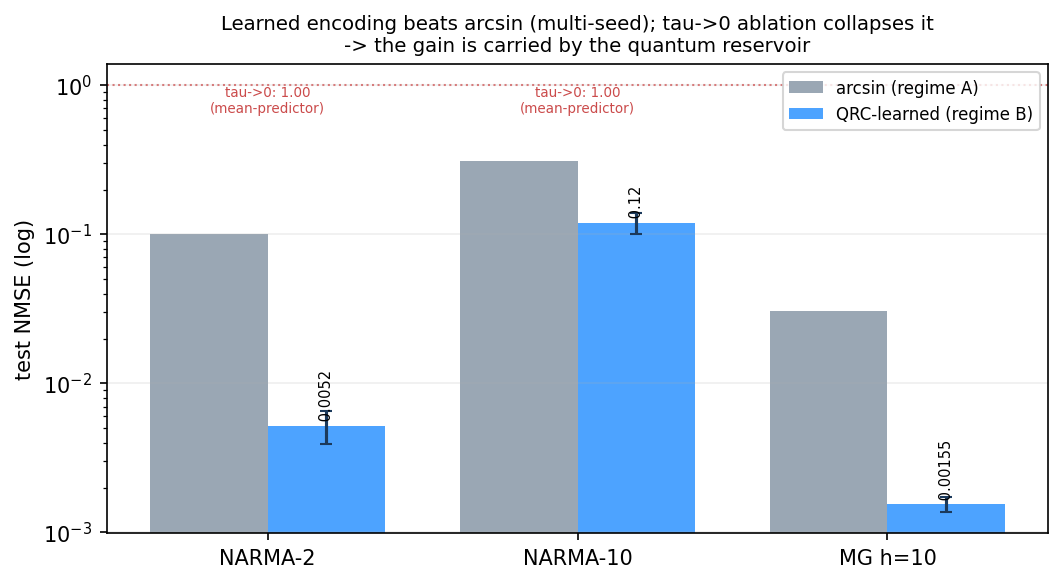
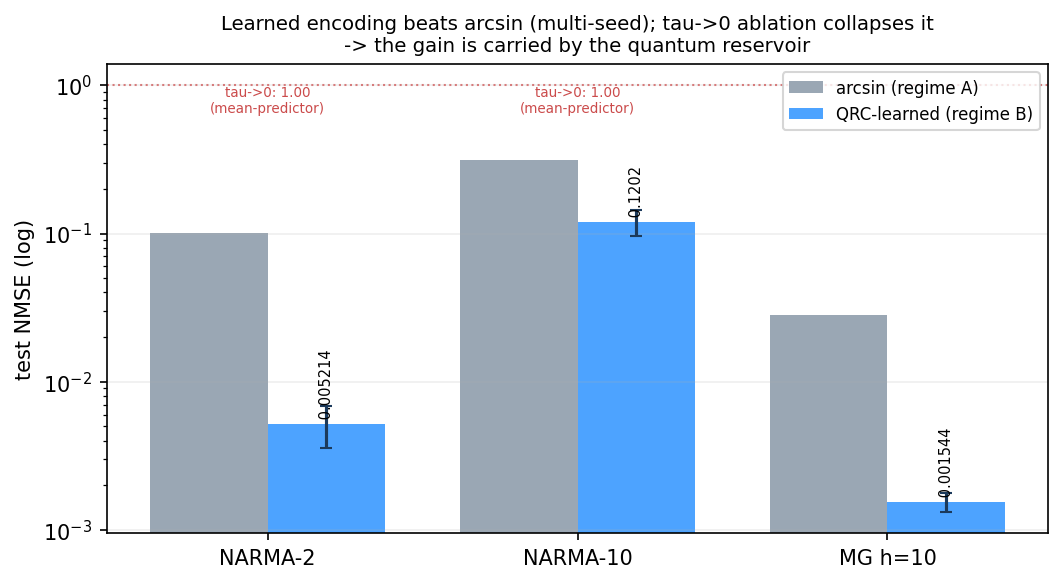
Manuscript: correct the classical comparison to the fair baselines; paper figures read saved data
The fully tuned ESN (qrc_classical_fair_esn.json, data seeds 1-3) beats the 6-spin
learned QRC on every synthetic task; the 'QRC beats ESN 3.7x on MG h=10' claim came
from the superseded size-only ESN and is removed. MG h=10 learned 0.00154+-0.00023
(exact), arcsin 0.028 over 3 seeds. qrc_paper_figures.py loads every number from
docs/QRC/data and pins figP1/P4 to named runs.

diff --git a/docs/QRC/QRC_Next_Stage_Status.html b/docs/QRC/QRC_Next_Stage_Status.html
@@ -82,6 +82,7 @@
   <div class="scroll"><table>
     <thead><tr><th>When</th><th>Subtask</th><th>Result</th><th>Commit</th></tr></thead>
     <tbody>
+      <tr><td>10-24</td><td><b>Publication package part 2: manuscript corrected to fair baselines; figures from saved data</b></td><td><span class="tag t-done">fixed</span> Removed the superseded "QRC beats ESN 3.7x on MG h=10" claim: a fully tuned ESN beats the 6-spin QRC on every synthetic task (also size-matched). QRC beats tuned LSTM on NARMA-10 and MG h=10. MG h=10 learned 0.00154&plusmn;0.00023; paper figure script reads docs/QRC/data only.</td><td>&lt;this commit&gt;</td></tr>
       <tr><td>10-24</td><td><b>Confirmation 2 launched (cira3: Sydney, Sao Paulo; cira2: Toronto)</b></td><td><span class="tag t-todo">running</span> Data downloaded after pre-registration. ESN grid | QRC g = 0.35 + g = 1 (traces saved) | tuned LSTM | confirm eval. ~1 h/city.</td><td>bd016c3</td></tr>
       <tr><td>10-24</td><td><b>Confirmation 2 pre-registered: final design on untouched Sydney / Sao Paulo / Toronto</b></td><td><span class="tag t-todo">pre-reg</span> g = 0.35, tau = 30 ms, 653 bins. F1: g0.35 &minus; g1 CI &gt; 0 in &ge; 2/3 cities. F2: non-inferiority vs tuned ESN / LSTM / linear AR (margin 0.02 R2), per baseline. Committed before download.</td><td>&lt;this commit&gt;</td></tr>
       <tr><td>10-24</td><td><b>Step 4 (learned encoding on top of g = 0.35) not adopted</b></td><td><span class="tag t-done">null</span> Mean val R2 learned 0.7038 vs fixed 0.7059 (threshold +0.005). No confirmation run. Fixed g = 0.35 beats published learned g = 1 on 6/8 datasets.</td><td>&lt;this commit&gt;</td></tr>

diff --git a/docs/QRC/QRC_Manuscript.tex b/docs/QRC/QRC_Manuscript.tex
@@ -43,11 +43,11 @@ $\arcsin\sqrt{s}$ encoding by ${\sim}19\times$ (NARMA-2) and ${\sim}2.6\times$
 (NARMA-10), confirmed across random seeds; a $\tau\!\to\!0$ ablation that removes the
 reservoir's cross-step memory collapses the improvement to a mean predictor,
 establishing the gain is carried by the quantum reservoir. Benchmarked against strong,
-tuned classical baselines the comparison is task dependent: a size-1000 echo-state
-network (ESN) matches or beats the QRC on the NARMA tasks, whereas on long-horizon
-chaotic prediction (Mackey--Glass, $h{=}10$) the learned QRC outperforms both a tuned
-LSTM (${\sim}1.6\times$) and the ESN (${\sim}3.7\times$), confirmed across three seeds.
-We therefore report no blanket quantum advantage, but a principled,
+tuned classical baselines (three data seeds, validation-selected), the learned QRC beats a
+tuned LSTM on NARMA-10 (${\sim}2\times$) and long-horizon chaotic prediction
+(Mackey--Glass, $h{=}10$; ${\sim}1.8\times$) and matches it on NARMA-2, but a fully tuned
+echo-state network (ESN) is one to three orders of magnitude better on every task,
+including at a size-matched reservoir. We therefore report no quantum advantage, but a principled,
 differentiable readout and a \emph{quantum-mediated} encoding-learning method, together
 with an honest, task-resolved characterization of when they help.
 \end{abstract}
@@ -369,14 +369,14 @@ reservoir.
 
 \begin{table}[t]
 \caption{\label{tab:learned}Learned per-spin encoding (regime B) vs arcsin (regime A),
-test NMSE (mean$\pm$s.d. over seeds), and the $\tau\!\to\!0$ ablation.}
+test NMSE (mean$\pm$sample s.d.\ over seeds), and the $\tau\!\to\!0$ ablation (seed 1).}
 \begin{ruledtabular}
 \begin{tabular}{lccc}
 task (seeds) & arcsin (A) & learned (B) & $\tau\!\to\!0$ (B) \\ \colrule
-NARMA-2 (3)  & $0.101\pm0.006$ & $\mathbf{0.0052\pm0.0013}$ & 0.9994 \\
-NARMA-10 (3) & $0.312\pm0.013$ & $\mathbf{0.120\pm0.019}$   & 0.9974 \\
+NARMA-2 (3)  & $0.101\pm0.007$ & $\mathbf{0.0052\pm0.0016}$ & 0.9994 \\
+NARMA-10 (3) & $0.312\pm0.017$ & $\mathbf{0.120\pm0.023}$   & 0.9974 \\
 MG $h{=}1$ (2) & $0.00063$     & $\mathbf{0.000076}$        & --- \\
-MG $h{=}10$ (3) & $0.0304$     & $\mathbf{0.00155\pm0.00018}$ & --- \\
+MG $h{=}10$ (3) & $0.028\pm0.007$ & $\mathbf{0.00154\pm0.00023}$ & --- \\
 \end{tabular}
 \end{ruledtabular}
 \end{table}
@@ -405,42 +405,44 @@ classical preprocessing---the central quantum claim of this work.
 
 \subsection{Comparison to strong classical baselines}\label{sec:classical}
 We compare regime B against a hyperparameter-tuned LSTM~\cite{Hochreiter1997} (sweep
-over hidden $\in\{32,64,128,256\}$, layers $\in\{1,2\}$, learning rate; cosine
-schedule, gradient clipping, five initializations, validation early-stopping) and a
-leaky ESN~\cite{Jaeger2001} (reservoir sizes $\{100,300,600,1000\}$), all on the
-identical split and metric (Table~\ref{tab:classical}, Fig.~\ref{fig:td}).
+over hidden size, layers and learning rate; cosine schedule, gradient clipping, three
+initializations, validation early-stopping) and a fully tuned leaky ESN~\cite{Jaeger2001}
+(grid over size $\{200,350,1000\}$, spectral radius, leak rate, input scale and ridge
+penalty, three initializations; also restricted to size $\le350$, comparable to the QRC's
+322 readout features), each selected on validation, on data seeds 1--3, with the
+identical leakage-free split and metric (Table~\ref{tab:classical}, Fig.~\ref{fig:td}).
 
 \begin{table}[t]
-\caption{\label{tab:classical}QRC-learned vs tuned LSTM vs ESN, test NMSE.}
+\caption{\label{tab:classical}QRC-learned vs tuned LSTM vs tuned ESN, test NMSE (mean over
+three seeds).}
 \begin{ruledtabular}
-\begin{tabular}{lccc}
-task & QRC-learned & LSTM (tuned) & ESN ($N{=}1000$) \\ \colrule
-NARMA-2 & 0.0052 & 0.0114 & $\mathbf{0.0046}$ \\
-NARMA-10 & 0.120 & 0.234 & $\mathbf{0.029}$ \\
-MG $h{=}1$ & 0.00008 & 0.0003 & $\sim0$ \\
-MG $h{=}10$ & $\mathbf{0.00155}$ & 0.0024 & 0.0057 \\
+\begin{tabular}{lcccc}
+task & QRC-learned & LSTM (tuned) & ESN ($N{\le}350$) & ESN ($N{\le}1000$) \\ \colrule
+NARMA-2 & 0.0052 & 0.0044 & $2.5\times10^{-5}$ & $\mathbf{1.1\times10^{-5}}$ \\
+NARMA-10 & 0.120 & 0.245 & 0.020 & $\mathbf{0.011}$ \\
+MG $h{=}10$ & 0.00154 & 0.0027 & $1.1\times10^{-5}$ & $\mathbf{2.8\times10^{-6}}$ \\
 \end{tabular}
 \end{ruledtabular}
 \end{table}
 
 \begin{figure}[t]
 \includegraphics[width=\columnwidth]{figP3_task_dependent.png}
-\caption{\label{fig:td}(left) Task-dependent comparison: a size-1000 ESN wins the
-NARMA benchmarks, while QRC-learned wins long-horizon chaotic prediction
-(Mackey--Glass $h{=}10$). (right) NMSE-vs-$n_{\mathrm{train}}$ learning curves for the
-tuned LSTM and ESN, with the QRC-learned operating point ($\star$) overlaid.}
+\caption{\label{fig:td}QRC-learned vs the fairly tuned LSTM and ESN (test NMSE, log
+scale; error bars are the sample s.d.\ over seeds). The learned QRC beats the tuned LSTM on
+NARMA-10 and Mackey--Glass $h{=}10$; the tuned ESN, also when size-matched, is one to
+three orders of magnitude better on every task.}
 \end{figure}
 
-Two honest findings. First, tuning the LSTM removes most of the apparent QRC advantage
-seen against an untuned baseline (the NARMA-2 LSTM improves ${\sim}12\times$); the
-learned QRC still betters the tuned LSTM by ${\sim}2\times$ on the NARMA tasks. Second,
-a well-sized classical ESN matches the QRC on NARMA-2 and outperforms it
-${\sim}4\times$ on NARMA-10, so we claim no quantum advantage there. However, on the
-one discriminative task---long-horizon chaotic prediction (MG $h{=}10$, where one-step
-prediction is trivial for all models)---the learned QRC outperforms both the tuned
-LSTM (${\sim}1.6\times$) and the ESN (${\sim}3.7\times$), confirmed across three seeds
-($0.00155\pm0.00018$, beating both baselines 3/3). The advantage thus appears
-specifically where nonlinear fading memory is essential.
+Two honest findings. First, against a tuned LSTM the learned QRC is ahead on NARMA-10
+(${\sim}2\times$) and Mackey--Glass $h{=}10$ (${\sim}1.8\times$) and comparable on NARMA-2.
+Second, tuning matters decisively for the ESN: an ESN tuned over size alone (spectral
+radius and leak fixed) gave 0.0046 / 0.029 / 0.0057 on the three tasks and appeared to
+lose to the QRC on Mackey--Glass $h{=}10$, but tuning spectral radius, leak, input scale and
+ridge penalty improves it by two to three orders of magnitude, and it then beats the QRC
+on every task, by ${\sim}11\times$ (NARMA-10) to ${\sim}500\times$ (NARMA-2, Mackey--Glass
+$h{=}10$), even when restricted to size $\le350$. An earlier version of this comparison,
+which reported a QRC win over the ESN on Mackey--Glass $h{=}10$, used the size-only ESN and
+is superseded. We therefore claim no advantage over classical reservoirs.
 
 \section{Discussion}\label{sec:discussion}
 The learned-encoding gain is a genuine, ablation-controlled improvement to a quantum
@@ -450,9 +452,9 @@ vanishes when the quantum memory is removed. The picture against classical model
 task dependent. The reservoir operates in a \emph{decoherence-limited} regime: $T_2$
 collapses the state faster than the Ising dynamics populate the $2^n$ Hilbert space, so
 the effective dimension the readout accesses is modest~\cite{Martinez2021}. On NARMA
-benchmarks---which reward a large linear-memory reservoir---a size-1000 ESN
-consequently matches or beats the six-spin QRC. On long-horizon chaotic prediction,
-where nonlinear fading memory dominates, the learned QRC wins. A decisive many-body
+and Mackey--Glass benchmarks a fully tuned ESN consequently beats the six-spin QRC by
+one to three orders of magnitude, while the QRC remains ahead of a tuned LSTM on the
+memory-bound tasks. A decisive many-body
 quantum advantage across task classes would require entangling dynamics faster than
 decoherence (long $T_2\times$ strong coupling), a regime our substrate does not reach.
 
@@ -460,16 +462,16 @@ decoherence (long $T_2\times$ strong coupling), a regime our substrate does not 
 wall; scaling requires checkpointing or a parameter-shift estimator. (ii) Simulated
 dynamics; on-device validation via the parameter-shift rule is the natural next step.
 (iii) A single molecule and coupling scale; the qualitative claims (encoding helps;
-gain is quantum-mediated; task-dependent classical comparison) should be checked across
+gain is quantum-mediated; classical comparison) should be checked across
 systems.
 
 \section{Conclusion}\label{sec:conclusion}
 We introduced a physics-informed, differentiable reduced-FID readout and a
 gradient-trained encoding for a nuclear-spin quantum reservoir, and showed---multi-seed
 and ablation-confirmed---that learning the encoding produces a quantum-mediated gain
-over the standard encoding, while being honest that a strong classical reservoir
-remains competitive or superior on the NARMA benchmarks and that the QRC's advantage
-appears---confirmed across three seeds---on hard chaotic prediction. Next: on-device
+over the standard encoding, while being honest that a fully tuned classical reservoir
+remains far superior on all three synthetic benchmarks, the QRC being ahead only of a
+tuned LSTM on the memory-bound tasks. Next: on-device
 encoding training via the parameter-shift rule; scaling past six qubits; and pushing
 toward the coherence-over-decoherence regime where the full
 Hilbert space contributes.

diff --git a/docs/QRC/figures/code/qrc_paper_figures.py b/docs/QRC/figures/code/qrc_paper_figures.py
@@ -3,12 +3,13 @@
 Generates (docs/QRC/figures/):
   figP1_spectrum.png       — physics-informed reduced-FID spectrum + analytic lines
   figP2_quantum_mediated.png — arcsin vs QRC-learned per task, with tau->0 ablation
-  figP3_task_dependent.png  — QRC-learned vs tuned-LSTM vs ESN (bars) + learning curves
+  figP3_task_dependent.png  — QRC-learned vs fairly tuned LSTM / ESN / size-matched ESN
   figP4_encoding.png        — arcsin vs learned per-spin encoding map (if encoding_detail
                               available from a run; else arcsin-only placeholder)
 
-Numbers are the confirmed results (campaign learnable-campaign-01ce463b, classical
-classical-baseline-548dbea6, mackey-h10 learnable-0a45c7b0 + mackey-h10-confirm-2d21b56f).
+Every number is read from the committed data package docs/QRC/data/ (6-spin campaign,
+MG h=10 seed 1 + confirm, fair classical baselines qrc_classical_fair_{esn,lstm}.json);
+nothing is typed in. figP1/figP4 read a run's saved trace / encoding_detail.json.
 CPU, no GPU. Lives in docs/QRC/figures/code/; writes PNGs to its parent (figures/).
 Run: python docs/QRC/figures/code/qrc_paper_figures.py
 """
@@ -35,26 +36,50 @@ from qrc_learnable_9spin import build_system  # noqa: E402
 
 FIGDIR = _HERE.parents[1]                      # docs/QRC/figures (write PNGs here)
 RUNS = _BACKEND / "artifacts" / "qrc_runs"
+# Pinned runs (archived with the raw traces): 6-spin MG h=10 seed 1 and seed 2.
+SPECTRUM_TRACE = RUNS / "learnable-0a45c7b0" / "learned_encoding_fid.npz"
+ENCODING_DETAIL = RUNS / "mackey-h10-confirm-2d21b56f" / "trace_seed2" / "encoding_detail.json"
 
-# ---- confirmed numbers (test NMSE), multi-seed mean +/- s.d. ---------------
-ARC = {"NARMA-2": 0.101, "NARMA-10": 0.312, "MG h=10": 0.0304}
-QRC = {"NARMA-2": 0.0052, "NARMA-10": 0.120, "MG h=10": 0.00155}
-QRC_STD = {"NARMA-2": 0.0013, "NARMA-10": 0.019, "MG h=10": 0.00018}
-ABL = {"NARMA-2": 0.9994, "NARMA-10": 0.9974}
-LSTM = {"NARMA-2": 0.0114, "NARMA-10": 0.234, "MG h=10": 0.0024}
-ESN = {"NARMA-2": 0.0046, "NARMA-10": 0.029, "MG h=10": 0.0057}
+# ---- numbers: read from the committed data package (docs/QRC/data), never typed in ----
+DATA = _HERE.parents[2] / "data"
+TASKS = {"NARMA-2": "narma2", "NARMA-10": "narma10", "MG h=10": "mackey_glass_h10"}
 
 
-def _latest(glob_pat, fname):
-    hits = sorted(RUNS.glob(f"{glob_pat}/**/{fname}"), key=lambda p: p.stat().st_mtime, reverse=True)
-    if not hits:
-        hits = sorted(RUNS.glob(f"{glob_pat}/{fname}"), key=lambda p: p.stat().st_mtime, reverse=True)
-    return hits[0] if hits else None
+def _j(name):
+    return json.loads((DATA / name).read_text(encoding="utf-8"))
+
+
+def numbers():
+    """Test NMSE per task: arcsin, QRC-learned (mean, s.d., per-seed), tau->0 ablation,
+    fairly tuned LSTM / ESN / size-matched ESN (data seeds 1-3, qrc_classical_fair.py)."""
+    jobs = _j("qrc_6spin_campaign.json")["jobs"]
+    s1 = _j("qrc_6spin_mackey_h10_seed1.json")["conditions"]
+    conf = _j("qrc_6spin_mackey_h10_confirm.json")["seeds"]
+    arc, lrn, abl = {}, {}, {}
+    for lab, key in (("NARMA-2", "narma2"), ("NARMA-10", "narma10")):
+        arc[lab] = [j["arcsin"] for j in jobs if j["task"] == key and not j["ablation"]]
+        lrn[lab] = [j["perspin"] for j in jobs if j["task"] == key and not j["ablation"]]
+        abl[lab] = [j["perspin"] for j in jobs if j["task"] == key and j["ablation"]][0]
+    arc["MG h=10"] = [s1["arcsin"]["test_nmse"]] + [conf[s]["arcsin"] for s in ("2", "3")]
+    lrn["MG h=10"] = [s1["perspin"]["test_nmse"]] + [conf[s]["perspin"] for s in ("2", "3")]
+    esn, lstm = _j("qrc_classical_fair_esn.json")["results"], _j("qrc_classical_fair_lstm.json")["results"]
+    return {"arcsin": {t: float(np.mean(v)) for t, v in arc.items()},
+            "qrc": {t: float(np.mean(v)) for t, v in lrn.items()},
+            "qrc_std": {t: float(np.std(v, ddof=1)) for t, v in lrn.items()},
+            "qrc_seeds": lrn, "ablation": abl,
+            "lstm": {t: lstm[k]["lstm_best"]["mean"] for t, k in TASKS.items()},
+            "esn": {t: esn[k]["esn_best"]["mean"] for t, k in TASKS.items()},
+            "esn_matched": {t: esn[k]["esn_matched"]["mean"] for t, k in TASKS.items()}}
+
+
+N = numbers()
+ARC, QRC, QRC_STD, ABL = N["arcsin"], N["qrc"], N["qrc_std"], N["ablation"]
+LSTM, ESN, ESN_M = N["lstm"], N["esn"], N["esn_matched"]
 
 
 def fig_spectrum():
     """Physics-informed reduced-FID spectrum with the analytic D_eff lines marked."""
-    trace = _latest("learnable-*", "learned_encoding_fid.npz")
+    trace = SPECTRUM_TRACE if SPECTRUM_TRACE.exists() else None
     fig, ax = plt.subplots(figsize=(7.2, 3.8))
     sysm = build_system("6", 137, coupling_scale=2.0)               # exact run system
     ls = physics_informed_lines(sysm.system)
@@ -99,43 +124,25 @@ def fig_quantum_mediated():
 
 
 def fig_task_dependent():
-    """QRC-learned vs tuned-LSTM vs ESN (bars) + NMSE-vs-n_train learning curves."""
+    """QRC-learned vs fairly tuned LSTM, tuned ESN and size-matched ESN (test NMSE, log)."""
     tasks = list(QRC)
-    x = np.arange(len(tasks)); w = 0.26
-    fig, (axL, axR) = plt.subplots(1, 2, figsize=(11.5, 4.2))
-    axL.bar(x - w, [QRC[t] for t in tasks], w, yerr=[QRC_STD[t] for t in tasks],
-            capsize=3, ecolor="#1b3a5c", label="QRC-learned", color="#4da3ff")
-    axL.bar(x, [LSTM[t] for t in tasks], w, label="LSTM (tuned)", color="#cb4b4b")
-    axL.bar(x + w, [ESN[t] for t in tasks], w, label="ESN (N=1000)", color="#e07b3c")
-    axL.set_yscale("log"); axL.set_ylabel("test NMSE (log)"); axL.set_xticks(x); axL.set_xticklabels(tasks)
-    axL.set_title("Task-dependent: ESN wins NARMA; QRC-learned wins MG h=10", fontsize=9.5)
-    axL.legend(fontsize=8); axL.grid(alpha=0.2, axis="y")
-
-    res = _latest("classical-baseline-*", "results.json")
-    if res is not None:
-        d = json.loads(Path(res).read_text(encoding="utf-8"))
-        # Correct QRC points (the classical run's stored qrc_perspin for mackey used
-        # the h=1 campaign value; use the confirmed per-task numbers instead).
-        qrc_pt = {"narma10": QRC["NARMA-10"], "mackey_glass_h10": QRC["MG h=10"]}
-        colors = {"narma10": "#7bd88f", "mackey_glass_h10": "#c98bdb"}
-        for key, c in colors.items():
-            r = d["tasks"].get(key, {})
-            lc = r.get("learning_curve")
-            if not lc:
-                continue
-            axR.plot(lc["n_trains"], lc["lstm"], "-o", color=c, lw=1.4, label=f"{key} LSTM")
-            axR.plot(lc["n_trains"], lc["esn"], "--s", color=c, lw=1.2, alpha=0.7, label=f"{key} ESN")
-            axR.scatter([735], [qrc_pt[key]], marker="*", s=140, color=c,
-                        edgecolor="k", zorder=5, label=f"{key} QRC-learned")
-        axR.set_yscale("log"); axR.set_xlabel("n_train"); axR.set_ylabel("test NMSE (log)")
-        axR.set_title("Data-efficiency (learning curves)", fontsize=9.5)
-        axR.legend(fontsize=6.5); axR.grid(alpha=0.2)
+    x = np.arange(len(tasks)); w = 0.2
+    fig, ax = plt.subplots(figsize=(7.6, 4.2))
+    ax.bar(x - 1.5 * w, [QRC[t] for t in tasks], w, yerr=[QRC_STD[t] for t in tasks],
+           capsize=3, ecolor="#1b3a5c", label="QRC-learned (6 spins)", color="#4da3ff")
+    ax.bar(x - 0.5 * w, [LSTM[t] for t in tasks], w, label="LSTM (tuned)", color="#cb4b4b")
+    ax.bar(x + 0.5 * w, [ESN_M[t] for t in tasks], w, label="ESN (tuned, N<=350)", color="#f0a868")
+    ax.bar(x + 1.5 * w, [ESN[t] for t in tasks], w, label="ESN (tuned, N<=1000)", color="#e07b3c")
+    ax.set_yscale("log"); ax.set_ylabel("test NMSE (log)"); ax.set_xticks(x); ax.set_xticklabels(tasks)
+    ax.set_title("Synthetic benchmarks: the learned QRC beats the tuned LSTM on NARMA-10 and MG h=10;\n"
+                 "a fully tuned ESN is 1-3 orders of magnitude better on every task", fontsize=9)
+    ax.legend(fontsize=7.5); ax.grid(alpha=0.2, axis="y")
     _save(fig, "figP3_task_dependent.png")
 
 
 def fig_encoding():
     """arcsin vs learned per-spin encoding map + validation-loss curve (real run)."""
-    detail = _latest("*", "encoding_detail.json")          # any run (confirm runs save it)
+    detail = ENCODING_DETAIL if ENCODING_DETAIL.exists() else None
     fig, (axL, axR) = plt.subplots(1, 2, figsize=(10.2, 4.0))
     sg = np.linspace(0, 0.5, 21)
     axL.plot(sg, np.arcsin(np.sqrt(np.clip(sg, 0, 1))), color="#3fb950", lw=2.4, label="arcsin(sqrt(s))")

diff --git a/docs/QRC/QRC_Next_Stage_Status.md b/docs/QRC/QRC_Next_Stage_Status.md
@@ -10,6 +10,7 @@ state, so we always know *what is left*.
 
 | When | Subtask | Result | Commit |
 |------|---------|--------|--------|
+| 2026-10-24 | **Publication package, part 2: manuscript corrected to the fair baselines; paper figures from saved data** | ⚠ `QRC_Manuscript.tex` still claimed the learned QRC beats the ESN ~3.7× on Mackey-Glass h=10 (superseded size-only ESN). Corrected throughout (abstract, Table 2, §classical, Fig P3, discussion, conclusion): fully tuned ESN (data seeds 1-3) beats the 6-spin QRC on every task — NARMA-2 1.1e-5 vs 0.0052, NARMA-10 0.011 vs 0.120, MG h=10 2.8e-6 vs 0.00154 (also size-matched ≤350); QRC beats the tuned LSTM on NARMA-10 (~2×) and MG h=10 (~1.8×), ≈ on NARMA-2. Table 1: MG h=10 learned **0.00154±0.00023** (was hand-rounded 0.00155), arcsin **0.028±0.007** over 3 seeds (was 0.0304 = seeds 2-3 only); s.d. now sample s.d. `figures/code/qrc_paper_figures.py` reads every number from `docs/QRC/data/` (no typed numbers), figP1/P4 pinned to named runs. Markdown manuscript copies marked superseded. LaTeX not compiled here (no TeX on host) | `<this commit>` |
 | 2026-10-24 | **Confirmation 2 launched (cira3: Sydney, São Paulo; cira2: Toronto)** | ⏳ Data downloaded after pre-registration 7965cde (20,454 days each, no gaps). Per city: ESN grid (CPU) ‖ QRC passes g = 0.35 + g = 1 (FID traces saved) → tuned LSTM → `qrc_design_confirm.py --grid 0.35,1 --prereg 7965cde`. One launcher per host (verified). Est. ~1 h/city | `bd016c3` |
 | 2026-10-24 | **Confirmation 2 pre-registered: final design (g = 0.35, τ = 30 ms, 653 bins) on untouched Sydney / São Paulo / Toronto** | 📋 `QRC_Design_Concepts.md` §10, committed before download. F1: g0.35 − g1 CI > 0 in ≥ 2/3 cities (replication). F2: non-inferiority vs tuned ESN / LSTM / linear AR, margin 0.02 R², ≥ 2/3 cities, per baseline. F3 descriptive incl. 6-city pooled. Runs on cira2/cira3 next. Publication package (option 2) scoping in parallel | `<this commit>` |
 | 2026-10-24 | **Step 4 (learned encoding on top of g = 0.35) — NOT ADOPTED** | ✅ 24 seed-runs (3 × 8 dev datasets, cira2 + cira3), validation only. Mean val R² learned 0.7038 vs fixed g0.35 0.7059 (Δ −0.002; threshold +0.005; 4/8 better, max +0.004, Bangkok −0.017). No confirmation run; Sydney / São Paulo / Toronto untouched. Gain and learned map not complementary; fixed g0.35 beats published learned g = 1 (0.6927) on 6/8. Note: a duplicate launcher ran on cira3 (same seeds, deterministic results; extra GPU time only) | `<this commit>` |

diff --git a/docs/QRC/QRC_Manuscript_Draft.md b/docs/QRC/QRC_Manuscript_Draft.md
@@ -1,5 +1,8 @@
 # Physics-informed spectral readout and trainable input encoding for a nuclear-spin quantum reservoir computer
 
+> **SUPERSEDED (2026-10-24).** This Markdown copy predates the fair classical baselines. Its ESN comparison ("QRC beats the ESN ~3.7x on Mackey-Glass h=10") is wrong: a fully tuned ESN beats the QRC on every synthetic task. The current text is `QRC_Manuscript.tex`; numbers are in `docs/QRC/data/` (see `MANIFEST.md`).
+
+
 **Draft manuscript — target: *Phys. Rev. X Quantum* (alt: *Phys. Rev. Research* / *Phys. Rev. Applied*).**
 Status: results core confirmed; classical-baseline section marked *[preliminary]* pending the strengthened baseline. Numbers below are from campaign `learnable-campaign-01ce463b` and the SOP conventions in `QRC_STANDARD_PROCEDURES.md`.
 

diff --git a/docs/QRC/QRC_Manuscript_Full.md b/docs/QRC/QRC_Manuscript_Full.md
@@ -1,5 +1,8 @@
 # Physics-informed spectral readout and gradient-trained input encoding for a nuclear-spin quantum reservoir computer
 
+> **SUPERSEDED (2026-10-24).** This Markdown copy predates the fair classical baselines. Its ESN comparison ("QRC beats the ESN ~3.7x on Mackey-Glass h=10") is wrong: a fully tuned ESN beats the QRC on every synthetic task. The current text is `QRC_Manuscript.tex`; numbers are in `docs/QRC/data/` (see `MANIFEST.md`).
+
+
 **Full manuscript draft — target: *Phys. Rev. Research* (alt: *Phys. Rev. Applied* / *PRX Quantum*).**
 
 **Authors:** [Author list — e.g. S. Boonto *et al.*], CiRA Quantum; [KMITL, Bangkok — affiliation to confirm].
